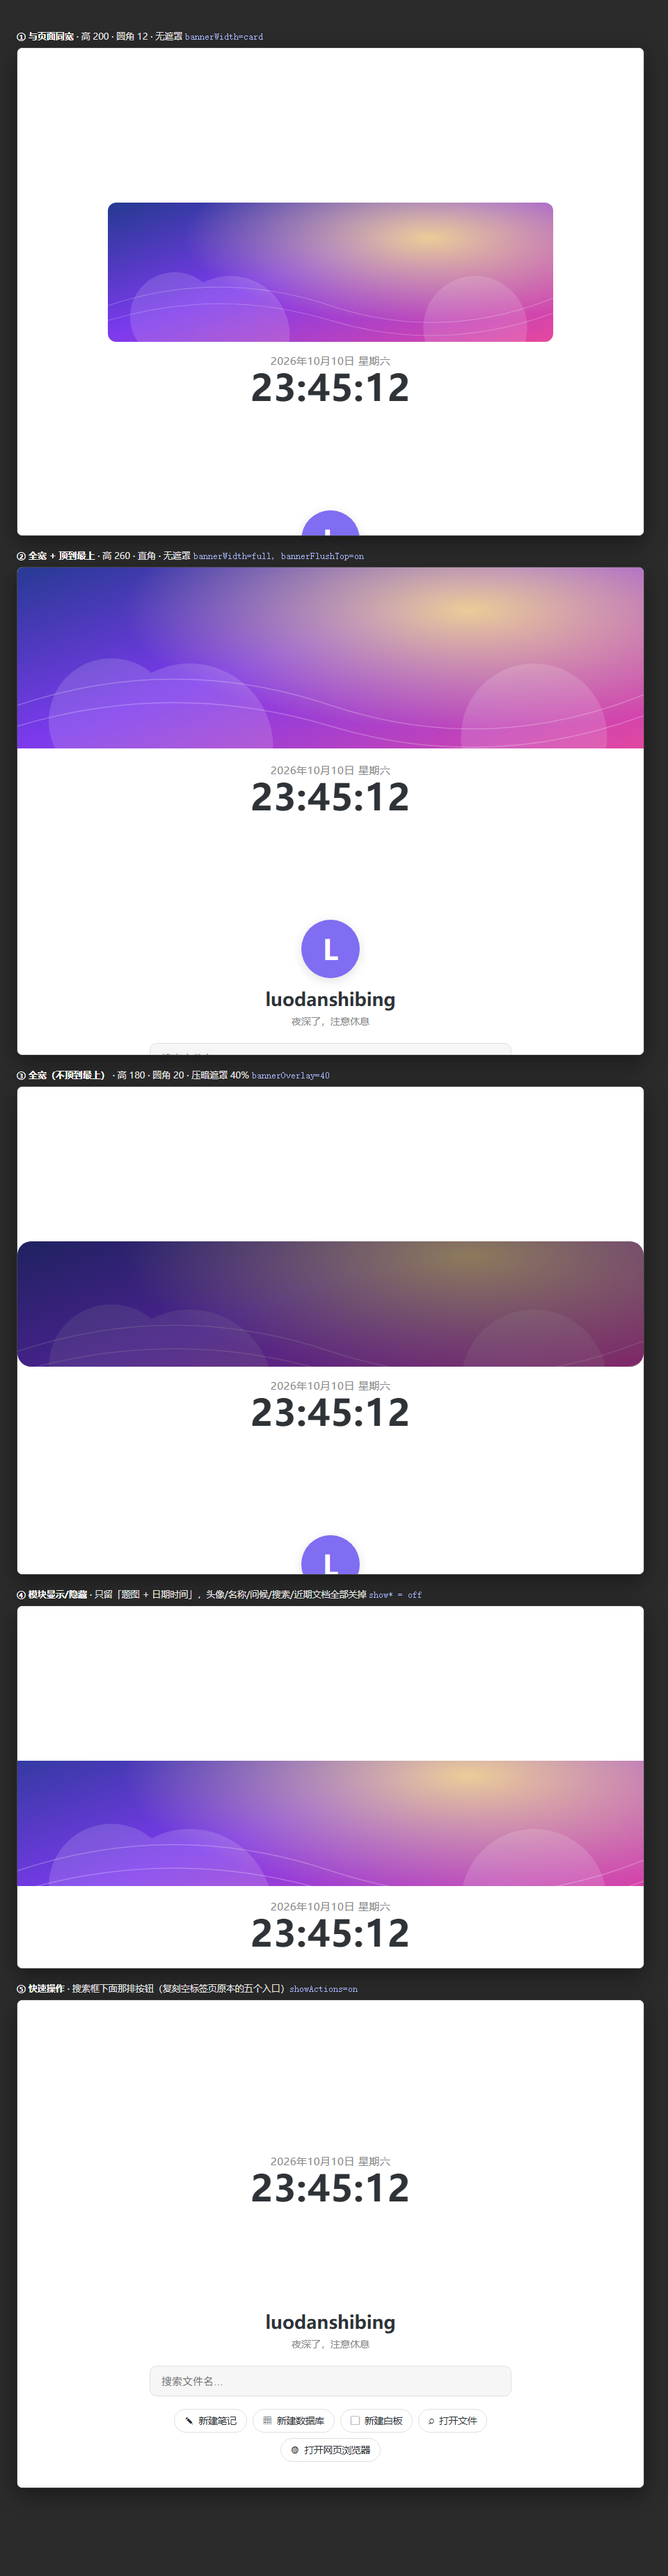
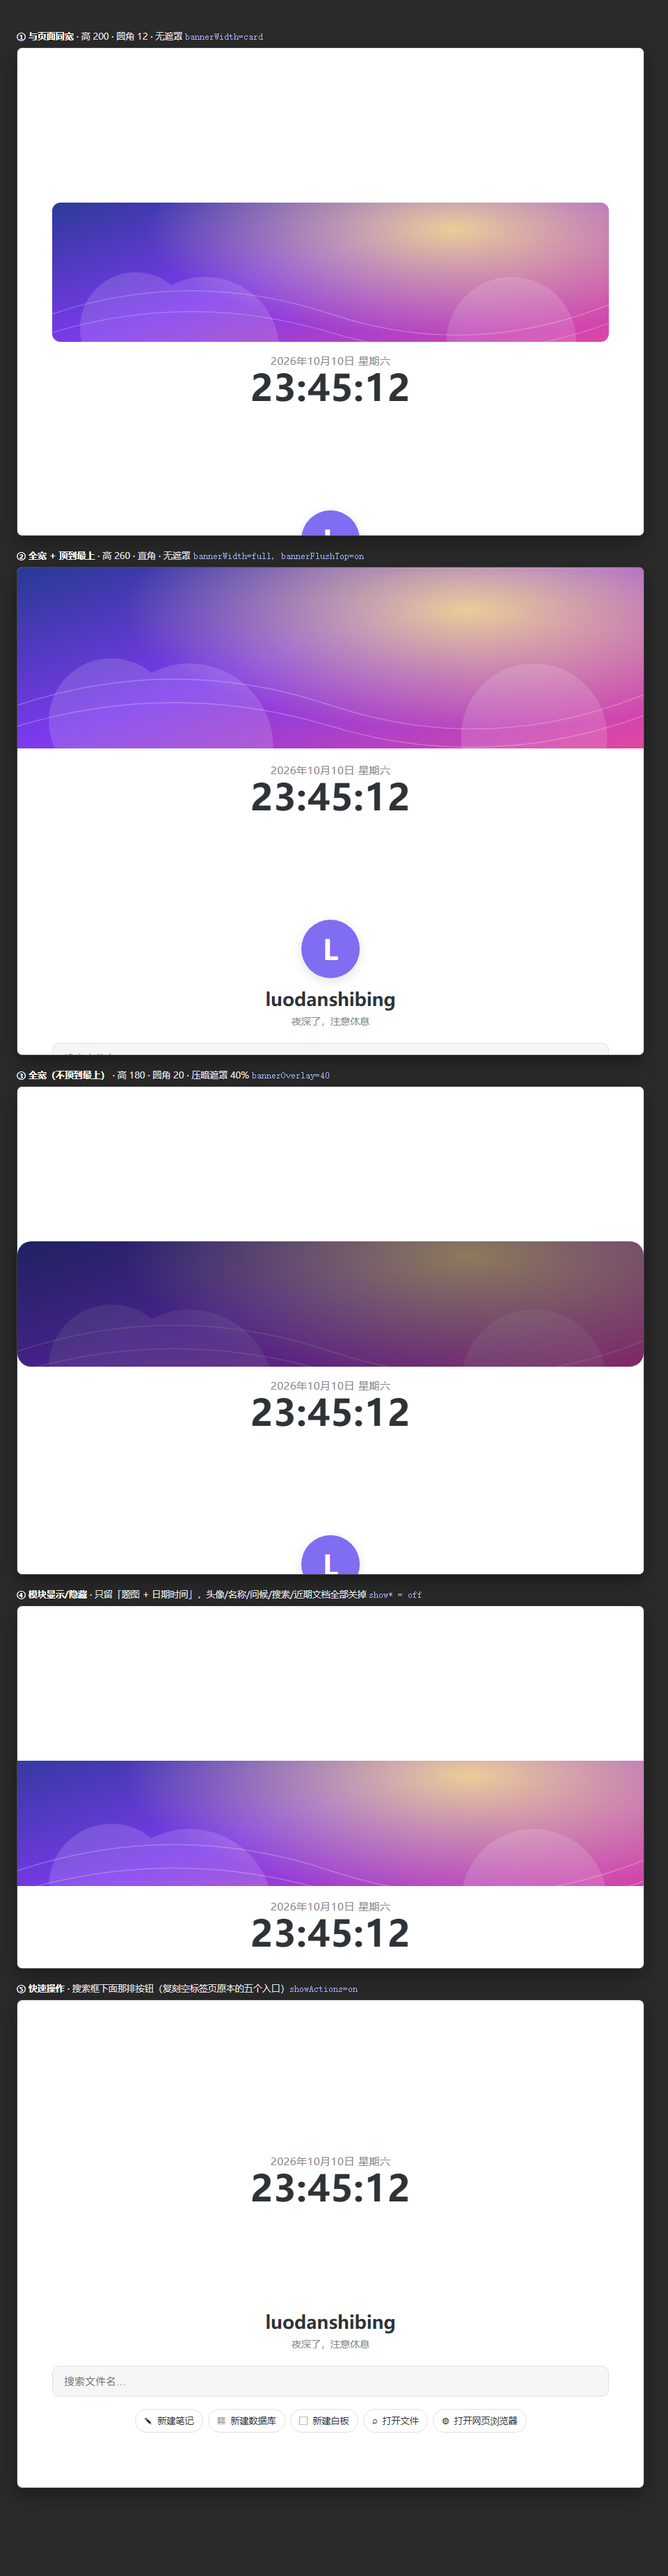
simple-home-tab v1.3.1: 快速操作按钮排成一行（不再被 520px 卡住）；新增页面宽度设置（rem 档位对齐 Softype 主题的 50rem 默认）

diff --git a/styles.css b/styles.css
@@ -40,7 +40,7 @@
 
 /* 主卡 */
 .simple-home-card {
-  width: min(640px, 92vw);
+  width: min(var(--shp-width, 50rem), 92vw);
   display: flex;
   flex-direction: column;
   align-items: center;
@@ -88,7 +88,7 @@
 .simple-home-search {
   position: relative;
   width: 100%;
-  max-width: 520px;
+  max-width: none;
 }
 .simple-home-search-input {
   width: 100%;
@@ -160,7 +160,7 @@
 /* 近期文档 */
 .simple-home-recent-header {
   width: 100%;
-  max-width: 520px;
+  max-width: none;
   text-align: left;
   font-size: 13px;
   font-weight: 600;
@@ -171,7 +171,7 @@
 }
 .simple-home-recent {
   width: 100%;
-  max-width: 520px;
+  max-width: none;
   display: flex;
   flex-direction: column;
   gap: 6px;
@@ -226,7 +226,7 @@
 /* 全部走 CSS 变量：设置一改只换变量值，不重建 DOM、不触发额外布局 */
 .simple-home-banner {
   position: relative;
-  width: min(640px, 92vw);
+  width: min(var(--shp-width, 50rem), 92vw);
   height: var(--shb-height, 200px);
   border-radius: var(--shb-radius, 12px);
   overflow: hidden;
@@ -267,9 +267,8 @@
   display: flex;
   flex-wrap: wrap;
   justify-content: center;
-  gap: 8px;
+  gap: 7px;
   width: 100%;
-  max-width: 520px;
   margin-top: 18px;
 }
 .simple-home-action {
@@ -277,8 +276,8 @@
   align-items: center;
   gap: 7px;
   height: 34px;
-  padding: 0 14px;
-  font-size: 13.5px;
+  padding: 0 12px;
+  font-size: 13px;
   font-family: inherit;
   line-height: 1;
   color: var(--text-normal);

diff --git a/main.js b/main.js
@@ -44,6 +44,7 @@ const DEFAULT_SETTINGS = {
   /* 页面头部 */
   title: '我的工作台',
   avatar: '',
+  pageWidthRem: 50,
 
   /* 近期文档 */
   recentCount: 8,
@@ -266,7 +267,11 @@ function enabledActions(settings) {
   if (!settings || settings.showActions === false) return [];
   return ACTION_SPECS.slice();
 }
-class SimpleHomePlugin extends Plugin {
+/** 页面内容宽度：与 Softype 主题的 width-45 ~ width-95 档位保持一致（单位 rem） */
+function pageWidthCss(settings) {
+  const s = settings || {};
+  return `${clampNumber(s.pageWidthRem, 45, 95, 50)}rem`;
+}class SimpleHomePlugin extends Plugin {
   constructor() {
     super(...arguments);
     /** 延迟构建的文件名索引（仅首次搜索时构建，之后缓存）。启动阶段完全不碰。 */
@@ -398,6 +403,7 @@ class HomeView extends ItemView {
   buildUI() {
     const s = this.plugin.settings;
     const root = this.contentEl.createDiv({ cls: 'simple-home simple-home-root' });
+    root.style.setProperty('--shp-width', pageWidthCss(s));
 
     if (s.showBanner) this.renderBanner(root);
 
@@ -837,4 +843,5 @@ module.exports.__test = {
   ACTION_SPECS,
   resolveActionCommand,
   enabledActions,
+  pageWidthCss,
 };

diff --git a/README.md b/README.md
@@ -34,7 +34,7 @@ Every empty tab is replaced by this home page automatically.
 |---|---|
 | Show banner | On/off |
 | Banner image | An image URL, or a path inside the vault. Empty = nothing is rendered. |
-| Width | **Same as page** (aligns with the 640px content column) or **Full width** (edge to edge) |
+| Width | **Same as page** (aligns with the page content column) or **Full width** (edge to edge) |
 | Height | 80–600 px |
 | Corner radius | 0–40 px |
 | Image fit | Crop to fill (`cover`) or show the whole image (`contain`) |
@@ -62,6 +62,7 @@ If the "trust author" dialog appears, accept it — the plugin runs entirely loc
 
 | Section | Items |
 |---|---|
+| Page | Page width in rem 鈥?same ladder as the Softype theme (width-45 鈥?width-95); 50rem 鈮?800px |
 | Page header | Show clock · Show avatar + avatar path · Show title + title text · Show greeting |
 | Banner | Show banner · image · width · height · corner radius · fit · alignment · darkening · gap · shadow · flush to top |
 | Search | Show search box |
@@ -147,7 +148,7 @@ MIT — see [LICENSE](LICENSE).
 |---|---|
 | 显示题图 | 开 / 关 |
 | 题图图片 | 网络图片 URL，或库内图片路径。留空 = 不渲染任何东西 |
-| 宽度 | **与页面同宽**（和 640px 内容列对齐）或 **全宽**（铺满整个视图） |
+| 宽度 | **与页面同宽**（和页面内容列对齐，宽度见「页面」分组）或 **全宽**（铺满整个视图） |
 | 高度 | 80–600 px |
 | 圆角 | 0–40 px |
 | 图片填充 | 裁切铺满（`cover`）或完整显示（`contain`） |
@@ -181,6 +182,7 @@ powershell -NoProfile -ExecutionPolicy Bypass -File tools\deploy.ps1 -Vault "E:\
 
 | 分组 | 项目 |
 |---|---|
+| 页面 | 页面宽度（rem，与 Softype 主题的 width-45 ~ width-95 档位一致；50rem ≈ 800px） |
 | 页面头部 | 显示日期时间 · 显示头像 + 头像路径 · 显示页面名称 + 名称 · 显示问候语 |
 | 题图 | 显示题图 · 图片 · 宽度 · 高度 · 圆角 · 填充 · 对齐 · 压暗 · 间距 · 阴影 · 顶到最上 |
 | 搜索 | 显示搜索框 |
